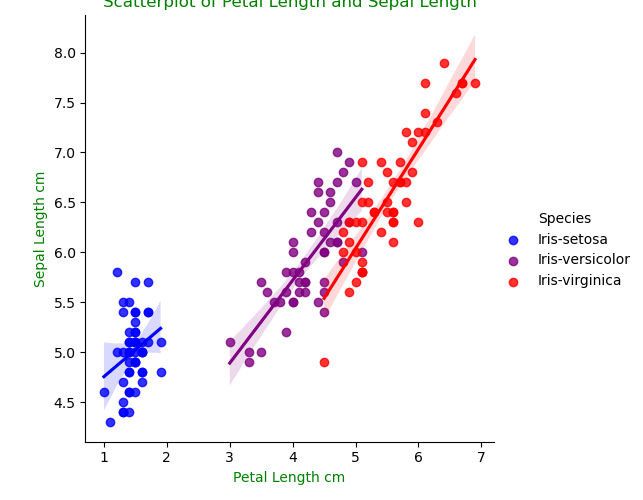
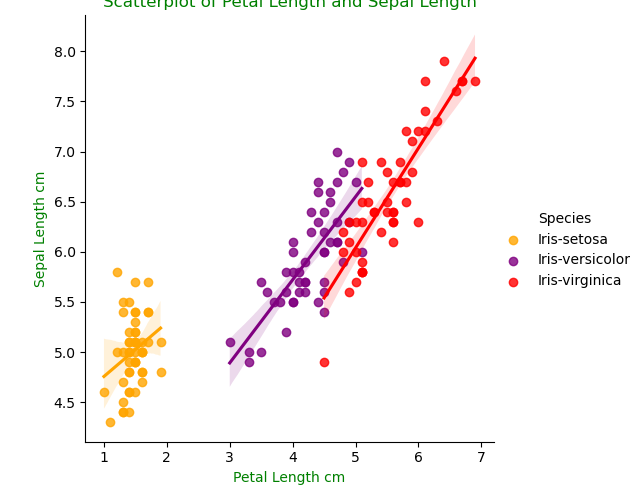
pands-project

diff --git a/analysis.py b/analysis.py
@@ -164,7 +164,8 @@ plt.title("Sepal Length") #labling the title
 plt.xlabel('Sepal Length in cm', color ="green") #labling the x axis 
 plt.ylabel('Count', color ="green") #labling the y axis
 plt.savefig("Sepal Length.png") #saving the hist as a .png file 
-#plt.show() #commenting this out - if not commented out it will print a hist in the terminal 
+#plt.show() #commenting this out - if not commented out it will print a histogram in the terminal 
+#plt.close() #this allows the user to control what plots will print in the terminal 
 
 #Histpgram of Sepal width 
 df.hist(column ="SepalWidthCm", grid=True, color="blue", legend =True)
@@ -173,6 +174,7 @@ plt.xlabel('Sepal width in cm', color ="green")
 plt.ylabel('Count', color ="green")
 plt.savefig("Sepal Width.png")
 #plt.show()
+#plt.close()
 
 #Histogram of Petal Length
 df.hist(column ="PetalLengthCm", grid=True, color="blue", legend =True) 
@@ -181,6 +183,7 @@ plt.xlabel('Petal Length in cm', color ="green")
 plt.ylabel('Count', color ="green")
 plt.savefig("Petal Length.png")
 #plt.show()
+#plt.close()
 
 #Histogram of Petal width
 
@@ -190,12 +193,13 @@ plt.xlabel('Petal Width in cm', color ="green")
 plt.ylabel('Count', color ="green")
 plt.savefig("Petal Width.png")
 #plt.show()
+#plt.close()
 
 
 
                                                     #SCATTERPLOTS 
                                    
-color_dict = dict({'Iris-setosa':'blue', 
+color_dict = dict({'Iris-setosa':'orange', 
                   'Iris-versicolor':'purple',
                   'Iris-virginica': 'red'}) #saving the colours as a dict {}
 
@@ -206,6 +210,7 @@ plt.title("Scatterplot of Sepal Length and Sepal Width", color ="green")
 plt.xlabel('Sepal Length cm', color ="green") 
 plt.ylabel('Sepal Width cm', color ="green")
 #plt.show()
+#plt.close()
 plt.savefig("Sepal Length and SepalWidth.png")
 
 sns.lmplot( x="PetalLengthCm", y="PetalWidthCm", fit_reg=True, hue='Species', legend=True, palette =color_dict, data=df,)
@@ -213,6 +218,7 @@ plt.title("Scatterplot of Petal Length and Petal Width", color ="green")
 plt.xlabel('Petal Length cm', color ="green")
 plt.ylabel('Petal Width cm', color ="green")
 #plt.show()
+#plt.close()
 plt.savefig("Petal Length and Petal Width.png")
 
 sns.lmplot( x="SepalLengthCm", y="PetalWidthCm", fit_reg=True, hue='Species', legend=True, palette =color_dict, data=df,)
@@ -220,6 +226,7 @@ plt.title("Scatterplot of Sepal Length and Petal Width", color ="green")
 plt.xlabel('Sepal Length cm', color ="green")
 plt.ylabel('Petal Width cm', color ="green")
 #plt.show()
+#plt.close()
 plt.savefig("Sepal Length and Petal Width.png")
 
 sns.lmplot( x="PetalLengthCm", y="SepalWidthCm", fit_reg=True, hue='Species', legend=True, palette =color_dict, data=df,)
@@ -227,6 +234,7 @@ plt.title("Scatterplot of Petal Length and Sepal Width", color ="green")
 plt.xlabel('Petal Length cm', color ="green")
 plt.ylabel('Sepal Width cm', color ="green")
 #plt.show()
+#plt.close()
 plt.savefig("Petal Length and Sepal Width.png")
 
 sns.lmplot( x="PetalLengthCm", y="SepalLengthCm", fit_reg=True, hue='Species', legend=True, palette =color_dict, data=df,)
@@ -234,15 +242,16 @@ plt.title("Scatterplot of Petal Length and Sepal Length", color ="green")
 plt.xlabel('Petal Length cm', color ="green")
 plt.ylabel('Sepal Length cm', color ="green")
 #plt.show()
+#plt.close()
 plt.savefig("Petal Length and Sepal Length.png")
 
 sns.lmplot( x="SepalWidthCm", y="PetalWidthCm", fit_reg=True, hue='Species', legend=True, palette =color_dict, data=df,)
 plt.title("Scatterplot of Sepal Width and Petal Width", color ="green")
 plt.xlabel('Sepal Width cm', color ="green")
 plt.ylabel('Petal Width cm', color ="green")
-#plt.show()
+plt.show()
+#plt.close()
 plt.savefig("Sepal Width and Petal Width.png")
-
 
 
 
